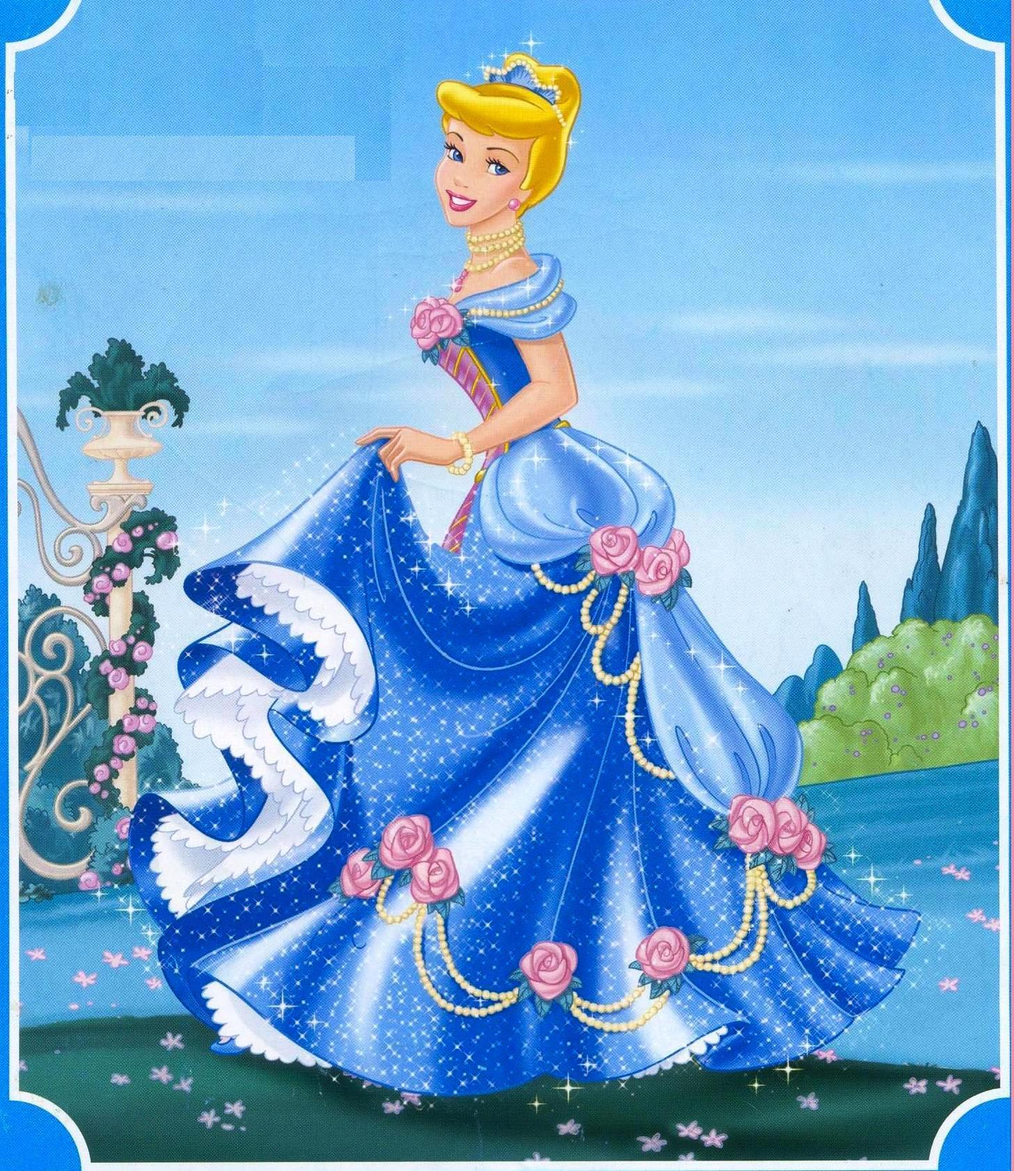
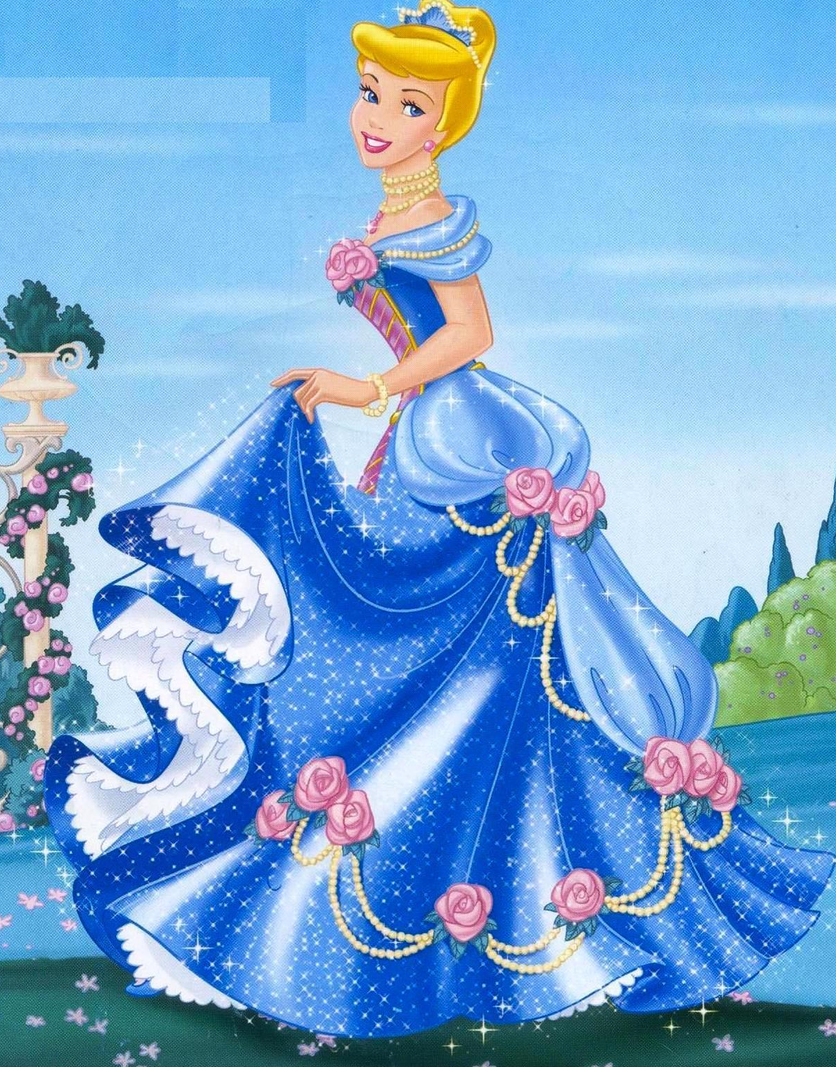
changes added to images

diff --git a/index.html b/index.html
@@ -13,8 +13,8 @@
             position: relative;
         }
         .slide{
-            height:500px;
-            width:500px;
+            height:800px;
+            width:800px;
             object-fit: cover;
             border-radius: 10px;
         }
